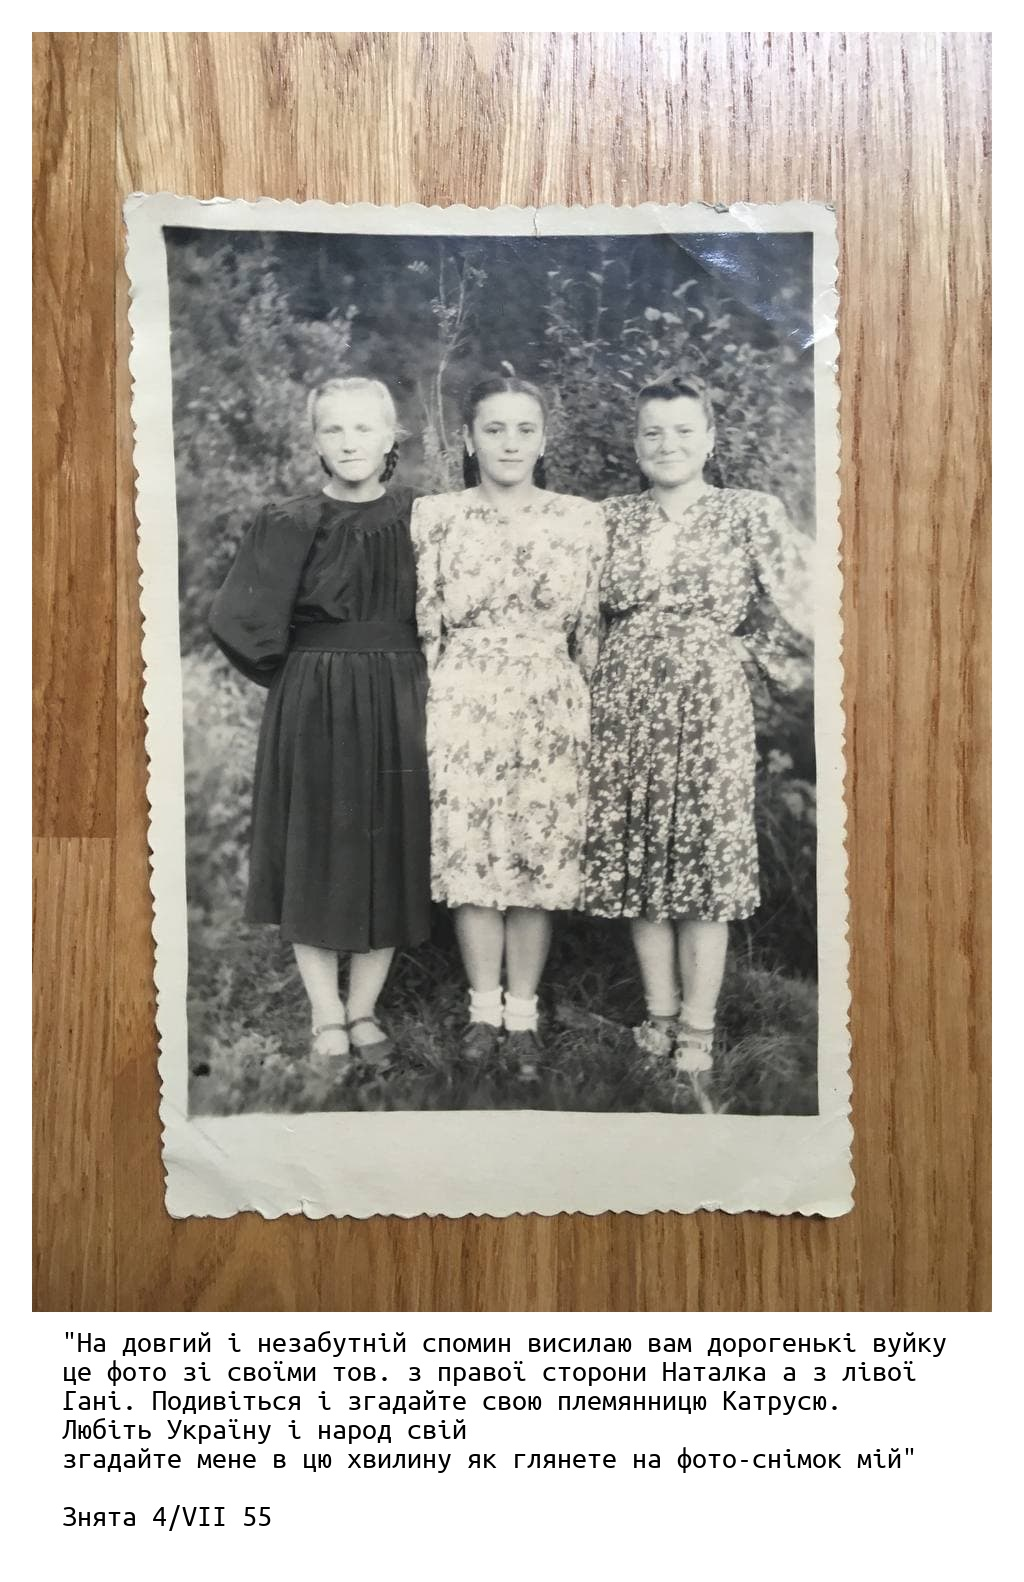
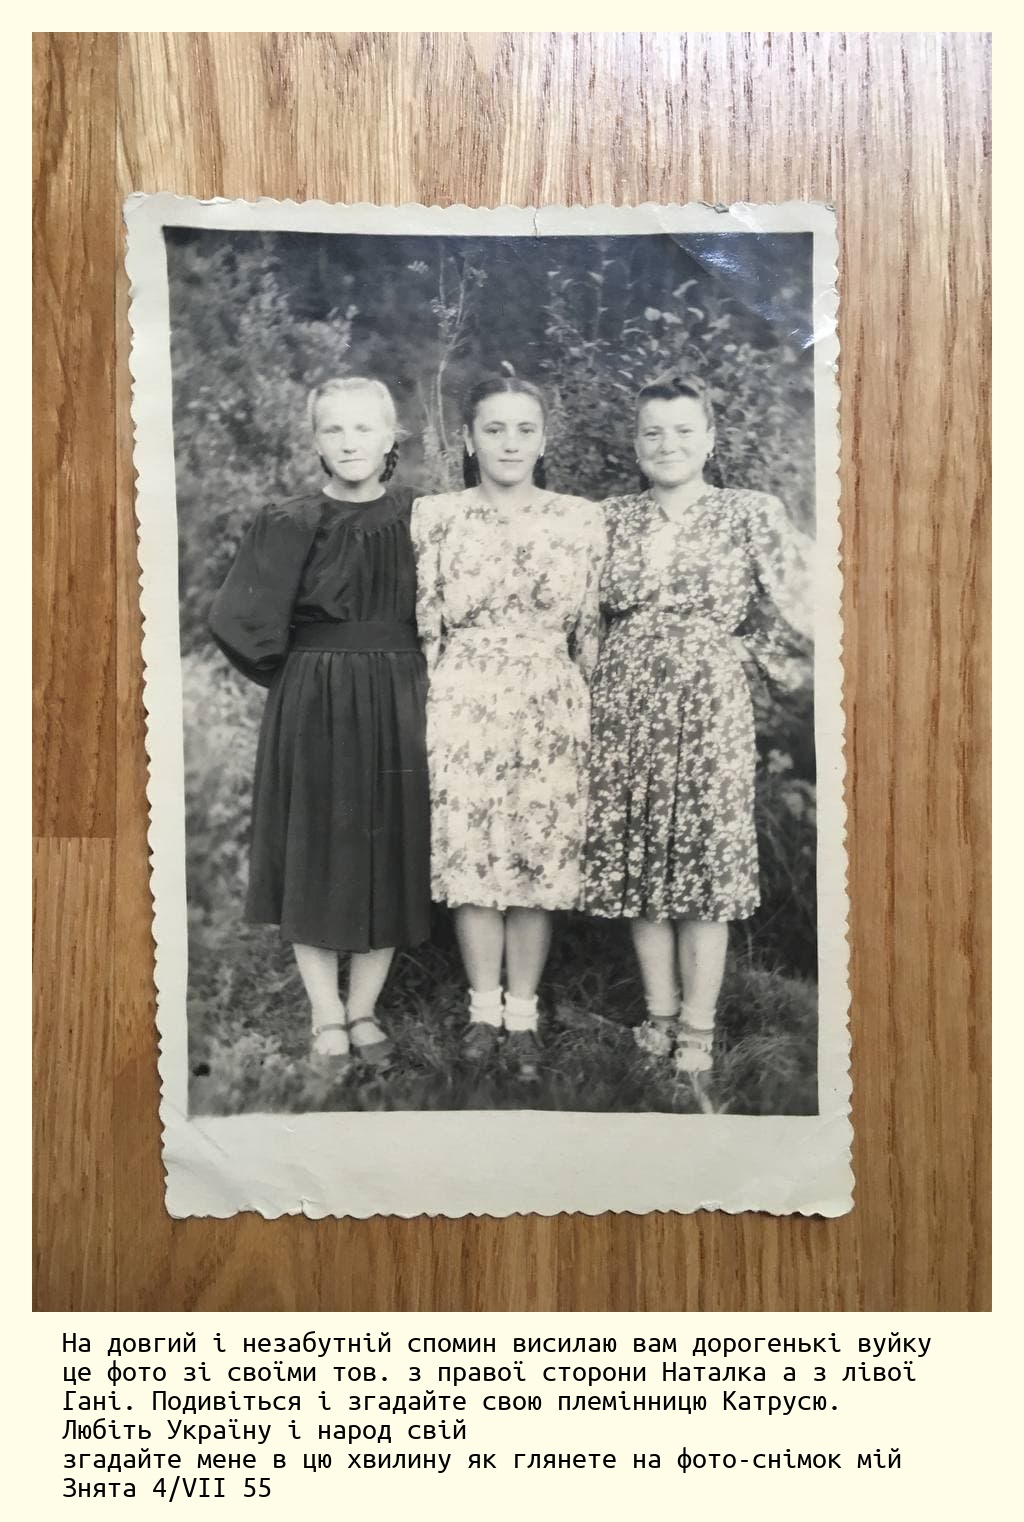
Add color modifications

diff --git a/paspartu.py b/paspartu.py
@@ -19,6 +19,8 @@ from PyQt5.QtGui import *
 
 TEXT_WIDTH = 60
 FONT_PATH = 'fonts/Ubuntu_Mono/UbuntuMono-Regular.ttf'
+BACKGROUND_COLOR = (255, 253, 232)
+TEXT_COLOR = (0, 0, 0)
 
 
 class Model:
@@ -66,6 +68,13 @@ class Model:
     def get_font(self, font_size):
         return ImageFont.truetype(FONT_PATH, font_size)
 
+    @staticmethod
+    def background(width, height, color: (int, int, int)):
+        img = np.ones(shape=(height, width, 3), dtype=np.uint8)
+        for i, c in enumerate(color):
+            img[:, :, i] = img[:, :, i] * c
+        return cv2.cvtColor(img, cv2.COLOR_RGB2BGR)
+
     def get_image_with_text(self, text):
 
         if self.image is not None:
@@ -90,20 +99,24 @@ class Model:
             font = self.get_font(font_size)
 
             text_width = font.getsize('x' * TEXT_WIDTH)[0]
-            diff = w - text_width
+            horizontal_offset = w - text_width
+            vertical_offset = font_size
 
-            text_box_height = diff + font_size * len(lines)
-            text_box = np.ones(shape=(text_box_height, w, 3), dtype=np.uint8) * 255
+            text_box_height = vertical_offset  + font_size * len(lines)
+
+            text_box = self.background(height=text_box_height, width=w, color=BACKGROUND_COLOR)
             text_box = self.put_text(text_box, '\n'.join([x for x in lines]),
-                                     x=diff // 2, y=15,
-                                     font=font, color=(0, 0, 0))
+                                     x=horizontal_offset // 2, y=vertical_offset // 2,
+                                     font=font, color=TEXT_COLOR)
 
             border = int(h * 0.025)
-            header = np.ones(shape=(border, w, 3), dtype=np.uint8) * 255
+            # header = np.ones(shape=(border, w, 3), dtype=np.uint8) * 255
+            header = self.background(height=border, width=w, color=BACKGROUND_COLOR)
             captioned = np.vstack([header, self.image, text_box])
 
             oh, ow, _ = captioned.shape
-            side = np.ones(shape=(oh, border, 3), dtype=np.uint8) * 255
+            # side = np.ones(shape=(oh, border, 3), dtype=np.uint8) * 255
+            side = self.background(height=oh, width=border, color=BACKGROUND_COLOR)
             bordered = np.hstack([side, captioned, side])
             return bordered
 

diff --git a/README.md b/README.md
@@ -44,8 +44,10 @@ Functionality:
 - Supported formats: PNG and JPEG
 - Original image quality is preserved
 - Original image is backuped
-- Font size is controlled by `TEXT_WIDTH` constant, which defines # of characters per line
-- Font face is controlled by the `FONT_PATH` constant. You can use your custom font if you would like.
+- Tune `TEXT_WIDTH` (# of characters per line) constant to control font size
+- Change `FONT_PATH` constant to use your custom font
+- Tune font color with `TEXT_COLOR` (RGB)
+- Tune background color with `BACKGROUND_COLOR` (RGB)
 
 ### Workflow
 
